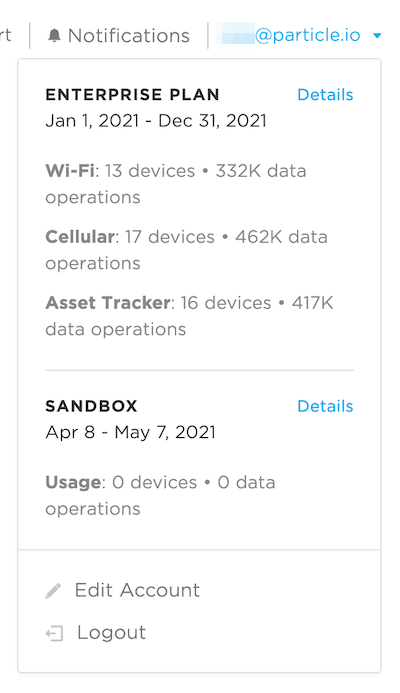
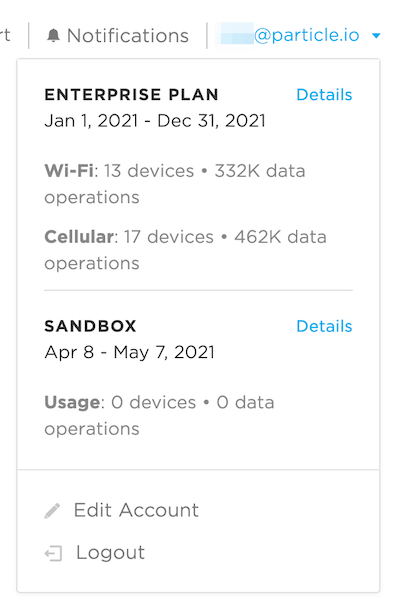
Tracker plan updates

diff --git a/src/content/getting-started/billing/cellular-data.md b/src/content/getting-started/billing/cellular-data.md
@@ -31,7 +31,7 @@ Particle provides a number of devices with cellular connectivity including the T
 - A block includes {{growthTierDataOperationsUnit}} Data Operations ({{growthTierDataOperationsComma}}) per month and up to {{growthTierDevices}} devices
 - Add as many blocks as you need for more Data Operations or more devices
 - No limit to the number of blocks you can purchase self-service
-- Up to {{growthTierDataOperationsCellularData}} of cellular data per month ({{growthTierDataOperationsTrackerData}} for Tracker), pooled across all devices, for each block purchased
+- Up to {{growthTierDataOperationsCellularData}} of cellular data per month, pooled across all devices, for each block purchased
 - Email support
 
 #### Enterprise plan
@@ -91,7 +91,7 @@ If the transmission is not acknowledged, it is possible that up to two more atte
 
 For cellular devices, there is a data limit depending on your tier. For the Free plan, the cellular data limit is {{freeTierDataOperationsCellularData}} , pooled across all devices, which includes all data usage including Data Operations, OTA code flash, overhead, and 3rd-party services. This limit is high relative to the average size of Data Operations, so you probably won't need to worry about the exact number of bytes for each operation.
 
-In the growth plan, {{growthTierDataOperationsCellularData}} of cellular data per month ({{growthTierDataOperationsTrackerData}} for Tracker) is included for each block purchased, per month.
+In the growth plan, {{growthTierDataOperationsCellularData}} of cellular data per month is included for each block purchased, per month.
 
 For Wi-Fi devices (Photon, P1, Argon) there is no limit for direct TCP or UDP data communications, or services that are based on direct communication such as [Blynk](https://blynk.io/).
 

diff --git a/src/content/getting-started/console/console.md b/src/content/getting-started/console/console.md
@@ -164,11 +164,6 @@ In the Growth and Enterprise plans, usage is divided by the class of devices. Fo
 
 ![Wi-Fi and Cellular Usage](/assets/images/console/wifi-cellular-usage.png)
 
-
-Also Tracker devices, which have higher data allocations than other cellular devices:
-
-<div align="center"><img src="/assets/images/console/tracker-usage.png" class="small"></div>
-
 These panels turn yellow at 70% of your plan limits, and red when the limits have been reached.
 
 
@@ -693,7 +688,7 @@ Products can be prototyped in the Free plan at no charge. However, there is a li
 - A block includes {{growthTierDataOperationsUnit}} Data Operations ({{growthTierDataOperationsComma}}) per month and up to {{growthTierDevices}} devices
 - Add as many blocks as you need for more Data Operations or more devices
 - No limit to the number of blocks you can purchase self-service
-- Up to {{growthTierDataOperationsCellularData}} of cellular data per month ({{growthTierDataOperationsTrackerData}} for Tracker), pooled across all devices, for each block purchased
+- Up to {{growthTierDataOperationsCellularData}} of cellular data per month, pooled across all devices, for each block purchased
 - Email support
 
 In the Growth plan, usage is measured by blocks. You can choose how many blocks you initially want to purchase in advance. It is also possible to add blocks if you run out of Data Operations, available devices, or cellular data. 

diff --git a/src/content/troubleshooting/faqs/general-knowledge/pricing-faq.md b/src/content/troubleshooting/faqs/general-knowledge/pricing-faq.md
@@ -20,7 +20,7 @@ Please see the link above and questions below for more details.
 
 ## What Is A Block?
 
-A **block** is a bundle of an additional 720k Data Operations and support for an additional 100 devices. A block is further inclusive to 540 MB of cellular data for cellular devices and 1.5 GB for Tracker devices. 
+A **block** is a bundle of an additional 720k Data Operations and support for an additional 100 devices. A block is further inclusive to 540 MB of cellular data for cellular devices. 
 
 ## What Is a Data Operation And How Can I Keep Track Of My Consumption?
 
@@ -114,7 +114,7 @@ For Wi-Fi devices (Photon, P1, Argon) there is no limit for direct TCP or UDP da
 For cellular devices, there is a data limit depending on your pricing plan. The following cellular data limits are pooled across all devices and include all data usage including Data Operations, OTA updates, messaging overhead, and messaging to 3rd-party services:
 
 * Free Plan: 100 MB cellular data per month
-* Growth Plan: 540 MB cellular data per block per month (1.5 GB for Tracker)
+* Growth Plan: 540 MB cellular data per block per month
 * Enterprise Plan: varies by pricing tier, [contact Particle Sales](http://particle.io/sales) to learn more
 
 ## How Can I Optimize My Data Operation Consumption?

diff --git a/src/content/getting-started/billing/migrating-to-growth.md b/src/content/getting-started/billing/migrating-to-growth.md
@@ -78,7 +78,7 @@ Billing is measured in blocks.
 
 - A block includes {{growthTierDataOperationsUnit}} Data Operations ({{growthTierDataOperationsComma}}) per month.
 - Up to {{growthTierDevices}} devices.
-- Up to {{growthTierDataOperationsCellularData}} of cellular data per month ({{growthTierDataOperationsTrackerData}} for Tracker), pooled across all devices.
+- Up to {{growthTierDataOperationsCellularData}} of cellular data per month, pooled across all devices.
 - Blocks are specific to cellular, Tracker, or Wi-Fi. Usage is aggregated for all devices in all products in your growth organization of the same class. For example, Electrons, Borons, and B Series are all cellular devices that can share the same block even though they are in different products.
 - Cellular blocks are {{growthBlockCellularPrice}} per month per block
 - Tracker blocks are {{growthBlockTrackerPrice}} per month per block

diff --git a/src/content/notes/what-is-a-block.md b/src/content/notes/what-is-a-block.md
@@ -3,7 +3,7 @@ Billing is measured in blocks.
 
 - A block includes {{growthTierDataOperationsUnit}} Data Operations ({{growthTierDataOperationsComma}}) per month.
 - Up to {{growthTierDevices}} devices.
-- Up to {{growthTierDataOperationsCellularData}} of cellular data per month ({{growthTierDataOperationsTrackerData}} for Tracker), pooled across all devices.
+- Up to {{growthTierDataOperationsCellularData}} of cellular data per month, pooled across all devices.
 - Blocks are specific to cellular, Tracker, or Wi-Fi. Usage is aggregated for all devices in all products in your growth organization of the same class. For example, Electrons, Borons, and B Series are all cellular devices that can share the same block even though they are in different products.
 - Cellular blocks are {{growthBlockCellularPrice}} per month per block
 - Tracker blocks are {{growthBlockTrackerPrice}} per month per block

diff --git a/src/content/getting-started/cloud/introduction.md b/src/content/getting-started/cloud/introduction.md
@@ -107,7 +107,7 @@ Updating your device firmware and Device OS can be done securely over the Partic
 - A block includes {{growthTierDataOperationsUnit}} Data Operations ({{growthTierDataOperationsComma}}) per month and up to {{growthTierDevices}} devices
 - Add as many blocks as you need for more Data Operations or more devices
 - No limit to the number of blocks you can purchase self-service
-- Up to {{growthTierDataOperationsCellularData}} of cellular data per month ({{growthTierDataOperationsTrackerData}} for Tracker), pooled across all devices, for each block purchased
+- Up to {{growthTierDataOperationsCellularData}} of cellular data per month, pooled across all devices, for each block purchased
 - Email support
 
 #### Enterprise plan

diff --git a/src/content/getting-started/products/introduction-to-products.md b/src/content/getting-started/products/introduction-to-products.md
@@ -48,7 +48,7 @@ Products allow a number of additional features over developer devices:
 - A block includes {{growthTierDataOperationsUnit}} Data Operations ({{growthTierDataOperationsComma}}) per month and up to {{growthTierDevices}} devices
 - Add as many blocks as you need for more Data Operations or more devices
 - No limit to the number of blocks you can purchase self-service
-- Up to {{growthTierDataOperationsCellularData}} of cellular data per month ({{growthTierDataOperationsTrackerData}} for Tracker), pooled across all devices, for each block purchased
+- Up to {{growthTierDataOperationsCellularData}} of cellular data per month, pooled across all devices, for each block purchased
 - Email support
 
 #### Enterprise Features

diff --git a/src/content/notes/free-vs-growth-product.md b/src/content/notes/free-vs-growth-product.md
@@ -32,5 +32,5 @@ Growth products have no limits, however as you use larger number of devices, dat
 - A block includes {{growthTierDataOperationsUnit}} Data Operations ({{growthTierDataOperationsComma}}) per month and up to {{growthTierDevices}} devices
 - Add as many blocks as you need for more Data Operations or more devices
 - No limit to the number of blocks you can purchase self-service
-- Up to {{growthTierDataOperationsCellularData}} of cellular data per month ({{growthTierDataOperationsTrackerData}} for Tracker), pooled across all devices, for each block purchased
+- Up to {{growthTierDataOperationsCellularData}} of cellular data per month, pooled across all devices, for each block purchased
 

diff --git a/src/content/notes/plans.md b/src/content/notes/plans.md
@@ -16,7 +16,7 @@
 - A block includes {{growthTierDataOperationsUnit}} Data Operations ({{growthTierDataOperationsComma}}) per month and up to {{growthTierDevices}} devices
 - Add as many blocks as you need for more Data Operations or more devices
 - No limit to the number of blocks you can purchase self-service
-- Up to {{growthTierDataOperationsCellularData}} of cellular data per month ({{growthTierDataOperationsTrackerData}} for Tracker), pooled across all devices, for each block purchased
+- Up to {{growthTierDataOperationsCellularData}} of cellular data per month, pooled across all devices, for each block purchased
 - Email support
 
 #### Enterprise plan

diff --git a/src/content/getting-started/billing/data-operations.md b/src/content/getting-started/billing/data-operations.md
@@ -34,7 +34,7 @@ Blocks are a maximum number of Data Operations and devices per month in the Grow
 
 - Up to {{growthTierDataOperationsUnit}} Data Operations ({{growthTierDataOperationsComma}}) per month 
 - Up to {{growthTierDevices}} devices
-- Up to {{growthTierDataOperationsCellularData}} of cellular data per month ({{growthTierDataOperationsTrackerData}} for Tracker), pooled across all devices, for each block purchased
+- Up to {{growthTierDataOperationsCellularData}} of cellular data per month, pooled across all devices, for each block purchased
 - Price varies for Wi-Fi, Cellular, and Tracker
 - Add as many blocks are you need
 
